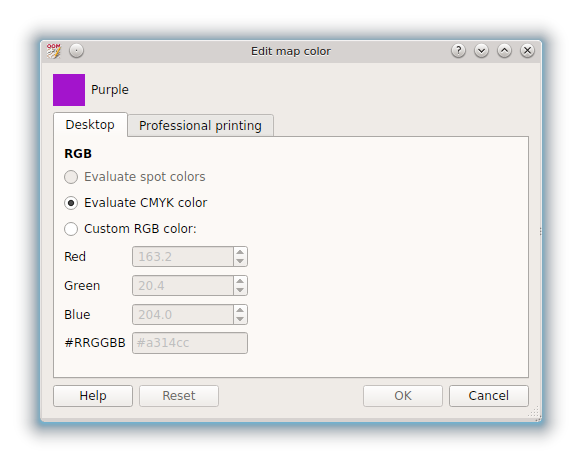
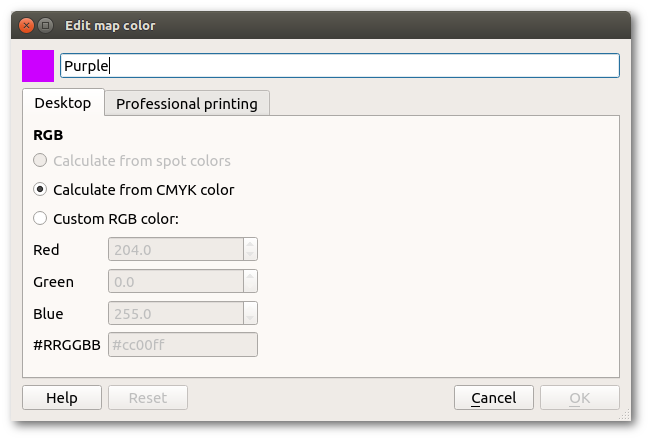
Update all screenshots for Mapper 0.6

Changed region(s): [[0.0, 0.0, 0.9897, 0.975]]

diff --git a/pages/android-pc.md b/pages/android-pc.md
@@ -62,7 +62,7 @@ tedious undistortion. Mapper does not provide a tool for this.
 Preparing for free-hand scribbling
 ----------------------------------
 
-[[img src=pencil.png]]
+[[img src=../mapper-images/pencil.png]]
 
 OO Mapper supports free-hand drawing onto image templates using the tool with
 the pencil icon shown above. This is especially convenient to use in case you
